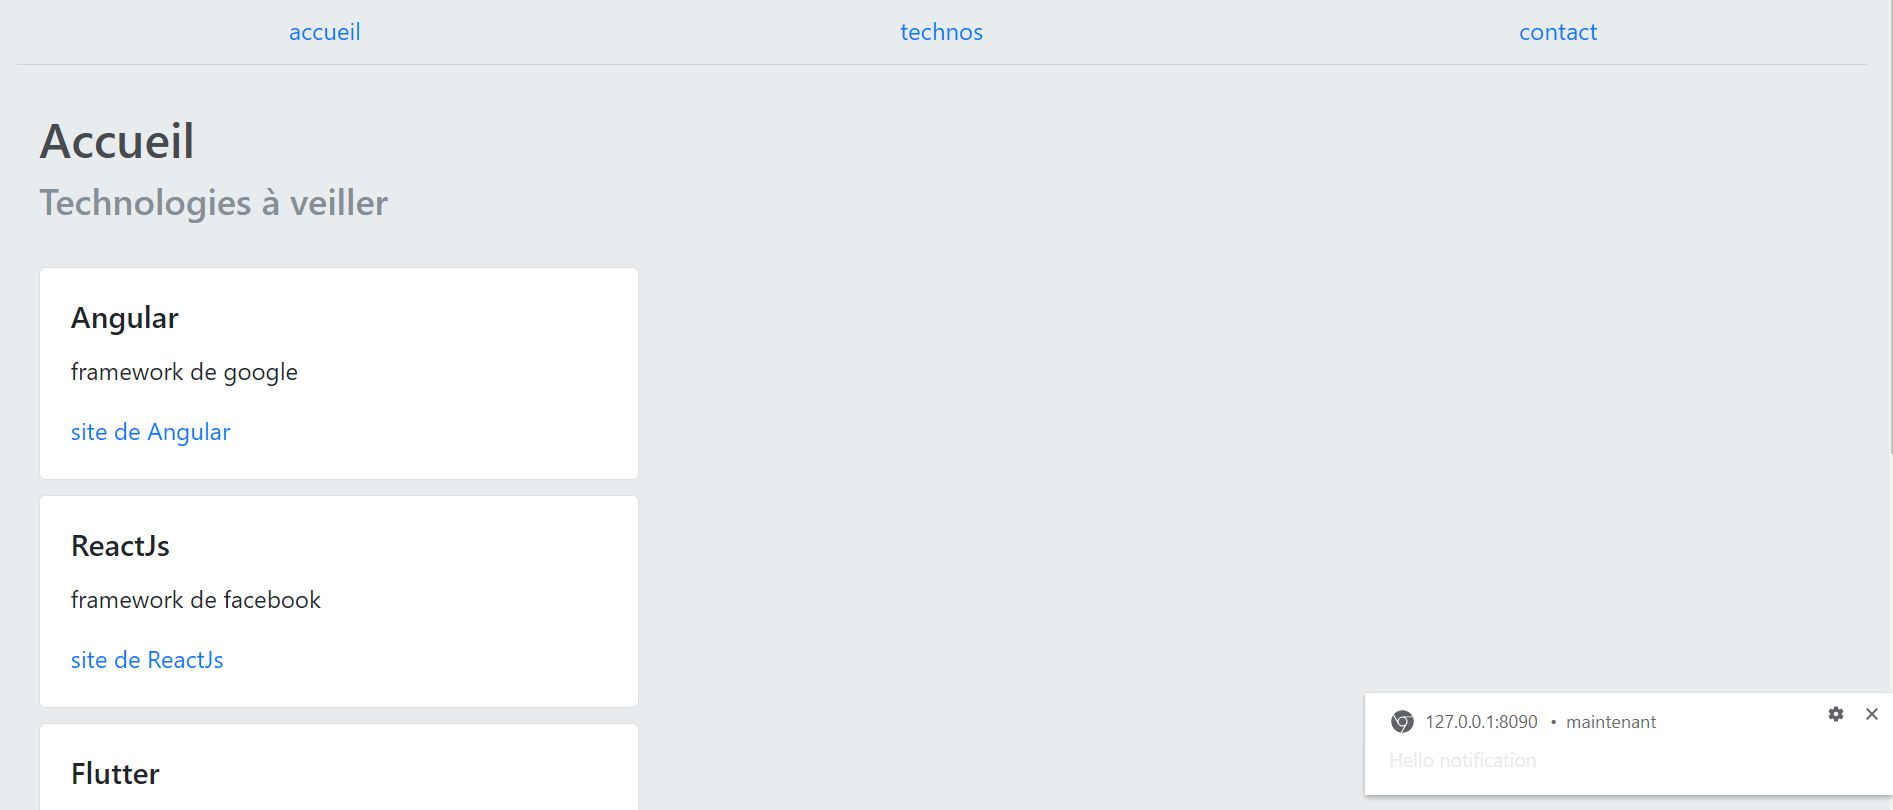
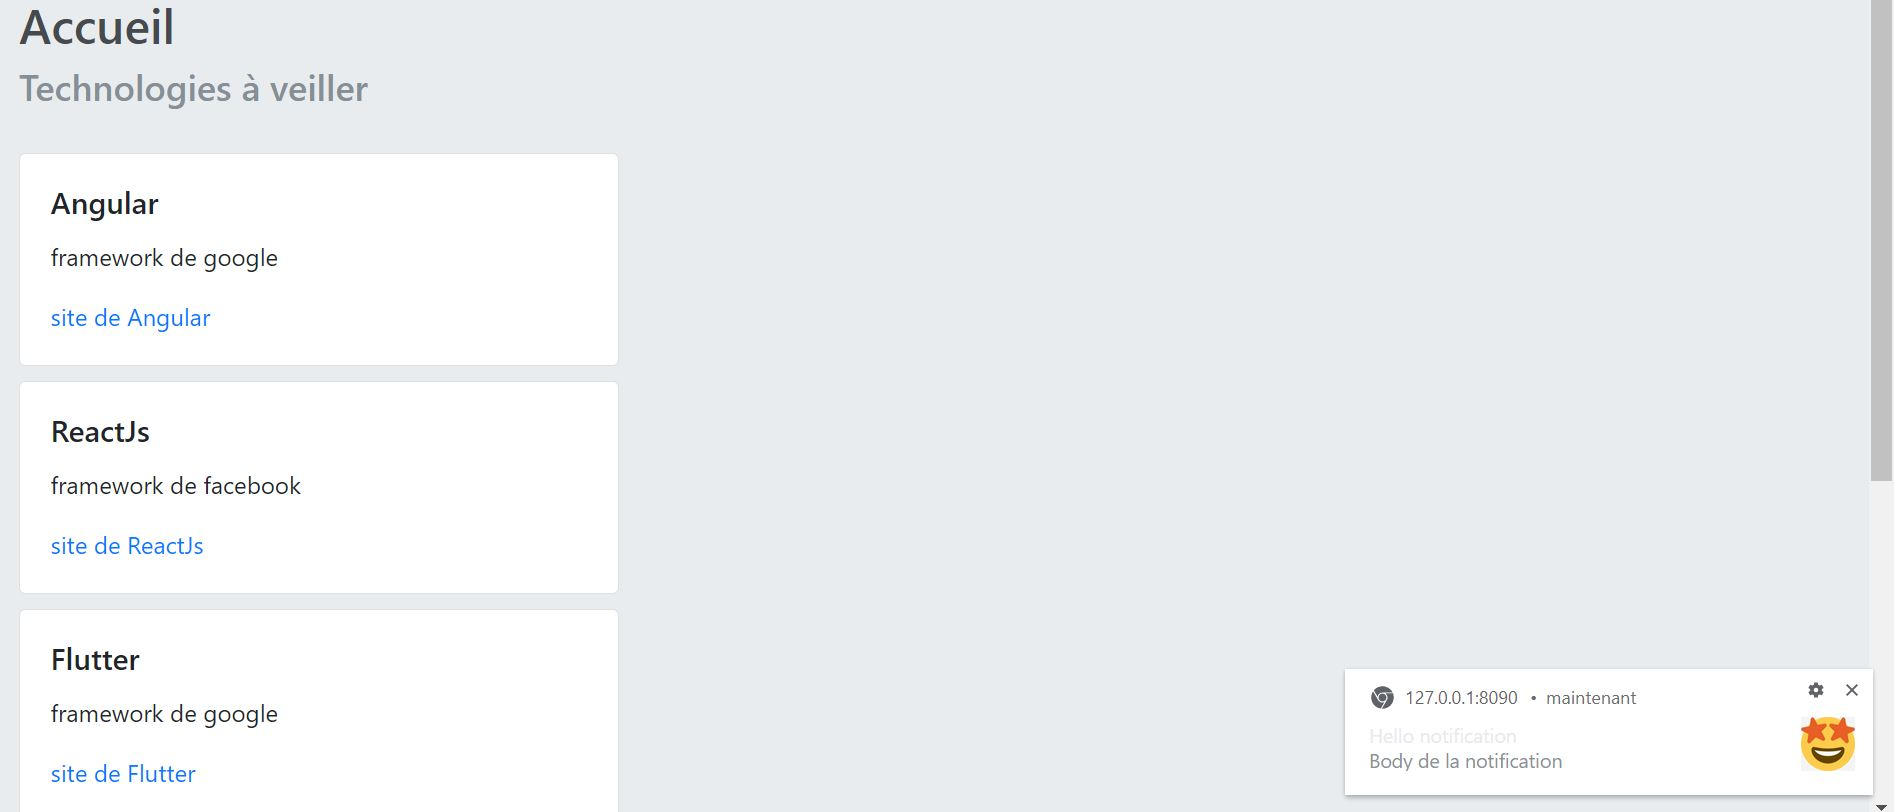
7. Notifications - résultat

diff --git a/sw.js b/sw.js
@@ -52,66 +52,96 @@ self.addEventListener('fetch', (evt) => {
 //..
 self.addEventListener('fetch', (evt) => {
 
-    // 5.3 Stratégie de network first with cache fallback
-    // On doit envoyer une réponse
-    evt.respondWith(
-        // on doit d'abord faire une requête sur le réseau de ce qui a été intercepté
-        fetch(evt.request).then(res => {
-            console.log("url récupérée depuis le réseau", evt.request.url);
-            // mettre dans le cache le résultat de cette réponse : en clef la requête et en valeur la réponse
-            caches.open(cacheName).then(cache => cache.put(evt.request, res));
-            // quand on a la réponse on la retourne (clone car on ne peut la lire qu'une fois)
-            return res.clone();
-        })
-        // Si on a une erreur et que l'on arrive pas à récupérer depuis le réseau, on va chercher dans le cache
-        .catch(err => {
-            console.log("url récupérée depuis le cache", evt.request.url);
-            return caches.match(evt.request);
-        })
-    );
+// 5.3 Stratégie de network first with cache fallback
+// On doit envoyer une réponse
+evt.respondWith(
+    // on doit d'abord faire une requête sur le réseau de ce qui a été intercepté
+    fetch(evt.request).then(res => {
+        console.log("url récupérée depuis le réseau", evt.request.url);
+        // mettre dans le cache le résultat de cette réponse : en clef la requête et en valeur la réponse
+        caches.open(cacheName).then(cache => cache.put(evt.request, res));
+        // quand on a la réponse on la retourne (clone car on ne peut la lire qu'une fois)
+        return res.clone();
+    })
+    // Si on a une erreur et que l'on arrive pas à récupérer depuis le réseau, on va chercher dans le cache
+    .catch(err => {
+        console.log("url récupérée depuis le cache", evt.request.url);
+        return caches.match(evt.request);
+    })
+);
 
 
-    // if(!navigator.onLine) {
-    //     const headers = { headers: { 'Content-Type': 'text/html;charset=utf-8'} };
-    //     evt.respondWith(new Response('<h1>Pas de connexion internet</h1><div>Application en mode dégradé. Veuillez vous connecter</div>', headers));
-    // }
+// if(!navigator.onLine) {
+//     const headers = { headers: { 'Content-Type': 'text/html;charset=utf-8'} };
+//     evt.respondWith(new Response('<h1>Pas de connexion internet</h1><div>Application en mode dégradé. Veuillez vous connecter</div>', headers));
+// }
 
-    // console.log('sw intercepte la requête suivante via fetch', evt);
-    // console.log('url interceptée', evt.request.url);
+// console.log('sw intercepte la requête suivante via fetch', evt);
+// console.log('url interceptée', evt.request.url);
 
 
-    // // 5.1 Stratégie : cache only with network callback
-    // evt.respondWith(
-    //     caches.match(evt.request)
-    //         .then(cachedResponse => {   
-    //             if (cachedResponse) {
-    //                 // 5.2 identification de la requête trouvée dans le cache
-    //                 console.log("url depuis le cache", evt.request.url);
+// // 5.1 Stratégie : cache only with network callback
+// evt.respondWith(
+//     caches.match(evt.request)
+//         .then(cachedResponse => {   
+//             if (cachedResponse) {
+//                 // 5.2 identification de la requête trouvée dans le cache
+//                 console.log("url depuis le cache", evt.request.url);
 
-    //                 return cachedResponse;
-    //             }
+//                 return cachedResponse;
+//             }
 
-    //             // 5.1 Stratégie de cache
-    //             return fetch(evt.request).then(
-    //                 // On récupère la requête
-    //                 function(newResponse) {
-    //                     // 5.2 identification de la requête ajoutée au cache
-    //                     console.log("url depuis le réseau et mise en cache", evt.request.url);
+//             // 5.1 Stratégie de cache
+//             return fetch(evt.request).then(
+//                 // On récupère la requête
+//                 function(newResponse) {
+//                     // 5.2 identification de la requête ajoutée au cache
+//                     console.log("url depuis le réseau et mise en cache", evt.request.url);
 
-    //                     // Accès au cache
-    //                     caches.open(cacheName).then(
-    //                         function(cache){
-    //                             // ajout du résultat de la requête au cache
-    //                             cache.put(evt.request, newResponse);
-    //                         }
-    //                     );
-    //                     // Utilisation de clone car on ne peut utiliser qu'une fois la réponse
-    //                     return newResponse.clone();
-    //                 }
-    //             )
-    //         }
-    //     )
-    // );
+//                     // Accès au cache
+//                     caches.open(cacheName).then(
+//                         function(cache){
+//                             // ajout du résultat de la requête au cache
+//                             cache.put(evt.request, newResponse);
+//                         }
+//                     );
+//                     // Utilisation de clone car on ne peut utiliser qu'une fois la réponse
+//                     return newResponse.clone();
+//                 }
+//             )
+//         }
+//     )
+// );
+
+
+// 7.3 Notifications persistantes (envoyées depuis le service worker)
+self.registration.showNotification("Notification du SW", {
+    body: "je suis une notification dite persistante",
+
+    // 7.4 Options de notifications grâce aux actions
+    actions: [
+        { action: "accept", title: "accepter" },
+        { action: "refuse", title: "refuser" }
+    ]
+})
+
+// 7.4 Options de notifications grâce aux actions
+// Ecouteur au clic d'un des deux boutons de la notification
+self.addEventListener("notificationclick", evt => {
+    console.log("notificationclick evt", evt);
+    if (evt.action === "accept") {
+        console.log("vous avez accepté");
+    } else if (evt.action === "refuse") {
+        console.log("vous avez refusé");
+    } else {
+        console.log("vous avez cliqué sur la notification (pas sur un bouton)");
+    }
+})
+
+
+// 7.5 Fermer programmatiquement une notification
+evt.notification.close();
+})
 
 
 });

diff --git a/main.js b/main.js
@@ -34,7 +34,7 @@ if (navigator.serviceWorker) {
         .register('sw.js')
         .catch(err => console.error('service worker NON enregistré', err));
 }
-
+/*
 //..
 //7.1 Notifications non persistantes
 // // Vérifie si la fonctionalité est disponible et si 
@@ -45,12 +45,21 @@ if (window.Notification && window.Notification !== "denied") {
         // vérifie si la permission est acceptée par l'utilisateur
         // 3 valeurs possibles : default | granted | denied
         if (perm === "granted") {
-            console.log("Notification acceptée");
+
+            // 7.2 Option de la notification
+            const options = {
+                body: "Body de la notification",
+                icon: "images/icons/icon-72x72.png"
+            }
+
             // On crée une nouvelle notification
-            const notif = new Notification("Hello notification");
+            // 7.2 On passe les options en deuxième argument
+            const notif = new Notification("Hello notification", options);
+
         } else {
             // Notification refusée
             console.log("Notification refusée");
         }
-    })
+    })*/
+
 }
